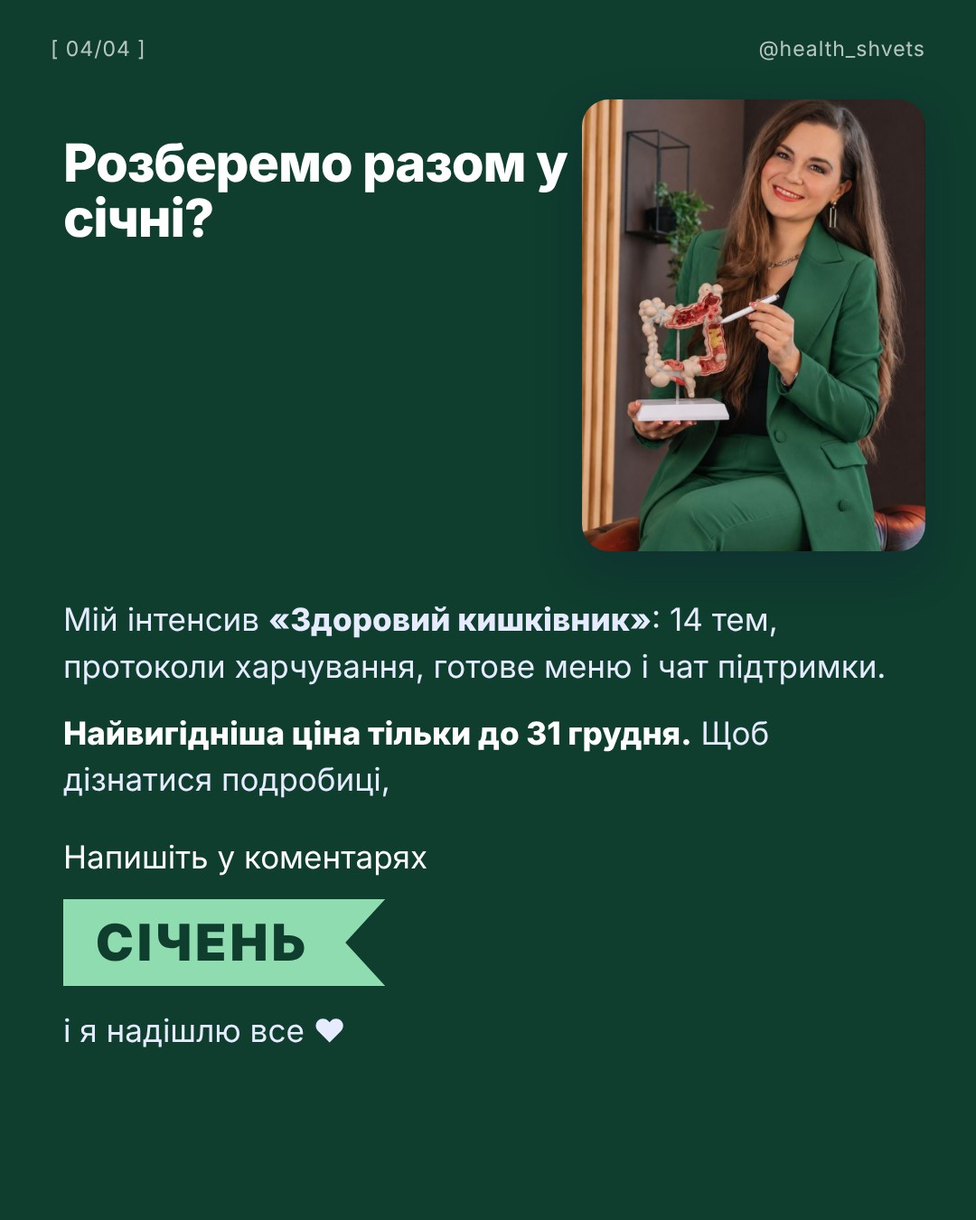
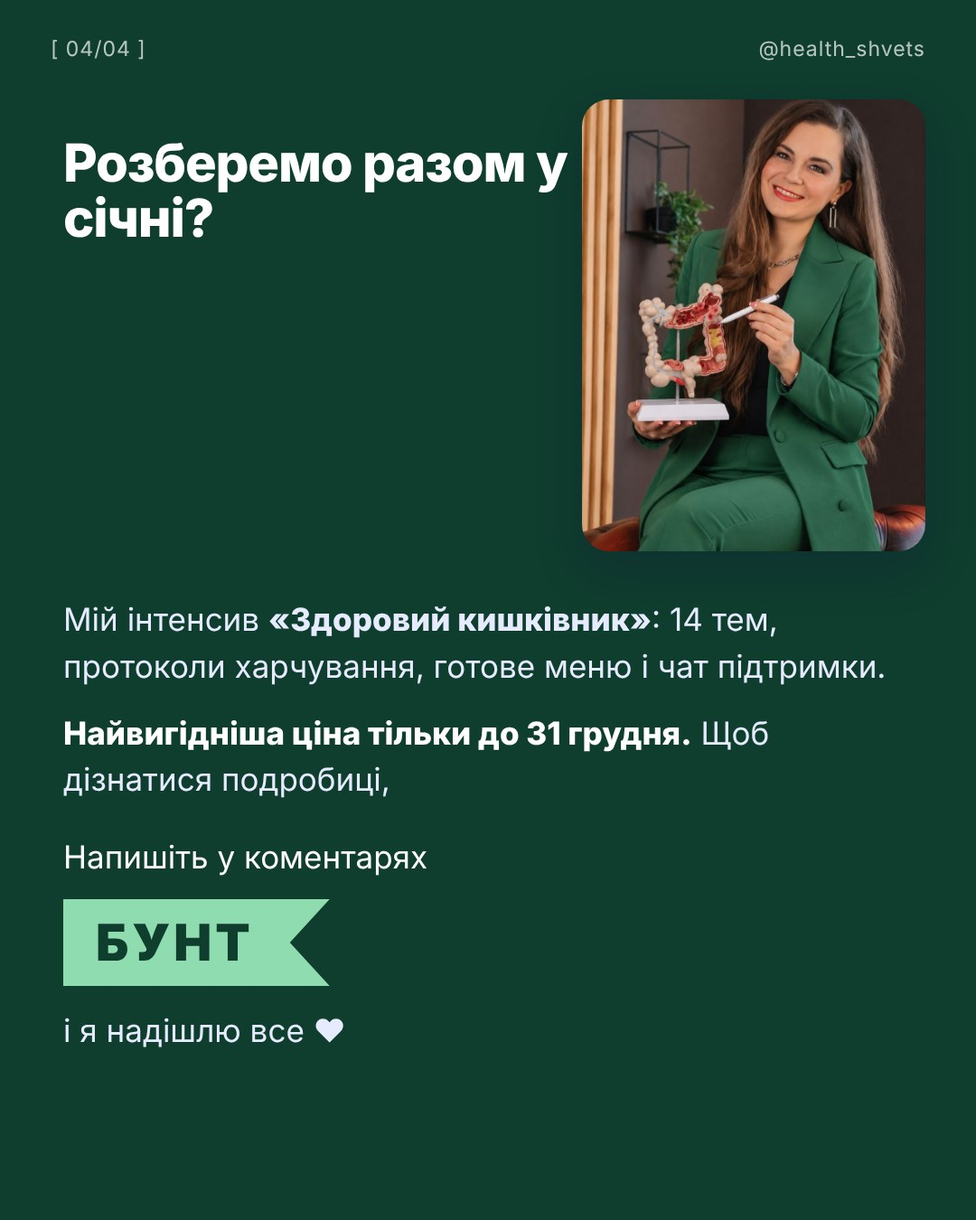
Каруселі грудня: СІЧЕНЬ → ЖИВІТ / БУНТ (січневий інтенсив)
Claude-Session: https://claude.ai/code/session_01VzrYNc44ZAszRsGLiFGcPN

Changed region(s): [[0.0917, 0.7156, 0.3972, 0.8089]]

diff --git a/instaposts.py b/instaposts.py
@@ -445,8 +445,8 @@ DEC += [
      "«Детокс-чай очищає організм від шлаків». Серйозно? 😉\n\nУ 2020 році Федеральна торгова комісія США вимагала від бренду детокс-чаїв Teami виплатити 1 мільйон доларів. Його рекламували відомі блогерки і співачки і обіцяли, що чай «очищає», допомагає схуднути і навіть боротися з хворобами. Доказів не було.\n\nЗдавалось би, трави, гарна упаковка, і зранку справді мінус на вагах.\n\nАле є нюанс. У багатьох детокс-чаях є проносні й сечогінні трави, і мінус на вагах це вода, а не «шлаки». А організм очищають печінка, нирки і кишківник, і їм потрібна підтримка, а не проносне.\n\nВід жінки, яка після кожного свята «чиститься» чаєм з маркетплейсу, до тієї, що роками п'є проносне і вже не може без нього. На консультації я дивлюсь, як працюють печінка і ШКТ, чи є запальні процеси й дефіцити, і даю рекомендації щодо раціону і детоксикації саме для вас.\n\nДо 31 грудня моя консультація зі знижкою 50% ‼\n\nНапишіть у коментарях КОНСУЛЬТАЦІЯ, і я надішлю подробиці ❤\n\nдетокс чай печінка міфи схуднення нутриціолог здоров'я"),
     ('h8', '2026-12-14 18:00', '🥦 «Телефон ви заряджаєте щоночі. А себе?» (слово ВІТАМІНИ)',
      "Телефон ви заряджаєте щоночі. А себе? 🔋\n\nО 23:00 телефон на зарядці, щоб зранку був на 100%. Не дай боже вийти з дому з 15%. А самі ми живемо на червоному індикаторі тижнями: кава зранку, кава в обід, «відпочину на вихідних» 😉\n\nУ тіла теж є зарядка, і це не кава. Це сон, їжа і те, чого вашому організму бракує саме зараз. Взимку батарейка сідає швидше, а правильний «зарядний пристрій» у кожного свій.\n\nЯ підберу вітаміни й добавки під ваш стан і аналізи, з посиланнями з різних сайтів і схемою прийому. До 31 грудня знижка 50% ‼\n\nНапишіть у коментарях ВІТАМІНИ, і я надішлю подробиці ❤\n\nенергія втома вітаміни зима здоров'я нутриціолог сон"),
-    ('h9', '2026-12-15 09:00', '📌 «Що буде в січневому інтенсиві» (слово СІЧЕНЬ)',
-     "Почати рік з легкого живота? Ось що буде в моєму інтенсиві «Здоровий кишківник» ❤\n\n14 тем за 14 днів: як імунітет, гормони, шкіра, вага і настрій залежать від кишківника, найважливіші аналізи і самотести вдома, харчові тригери і протокол харчування, здуття і газоутворення, 10 причин закрепів, мікробіом, відновлення слизової і «аптечка» для ШКТ.\n\nВи отримаєте розбір своїх аналізів і пошук причин, протоколи харчування, готове меню і рецепти, вправи й масажні техніки, чат підтримки весь інтенсив і знижки до 25% на аналізи й добавки.\n\n«У січні я ще не буду готова», пишуть мені. А січень якраз найкращий час: після свят тіло саме просить легкості. І найвигідніша ціна діє тільки для тих, хто записується до 31 грудня.\n\nНапишіть у коментарях СІЧЕНЬ, і я надішлю подробиці ❤\n\nкишківник інтенсив січень здоров'я травлення нутриціолог новий рік"),
+    ('h9', '2026-12-15 09:00', '📌 «Що буде в січневому інтенсиві» (слово ЖИВІТ)',
+     "Почати рік з легкого живота? Ось що буде в моєму інтенсиві «Здоровий кишківник» ❤\n\n14 тем за 14 днів: як імунітет, гормони, шкіра, вага і настрій залежать від кишківника, найважливіші аналізи і самотести вдома, харчові тригери і протокол харчування, здуття і газоутворення, 10 причин закрепів, мікробіом, відновлення слизової і «аптечка» для ШКТ.\n\nВи отримаєте розбір своїх аналізів і пошук причин, протоколи харчування, готове меню і рецепти, вправи й масажні техніки, чат підтримки весь інтенсив і знижки до 25% на аналізи й добавки.\n\n«У січні я ще не буду готова», пишуть мені. А січень якраз найкращий час: після свят тіло саме просить легкості. І найвигідніша ціна діє тільки для тих, хто записується до 31 грудня.\n\nНапишіть у коментарях ЖИВІТ, і я надішлю подробиці ❤\n\nкишківник інтенсив січень здоров'я травлення нутриціолог новий рік"),
     ('h10', '2026-12-15 18:00', '📌 Рецепт «Пюре з цвітної капусти» (без кодового слова, підписка)',
      "Пюре, після якого не хочеться спати 😉\n\nПюре з цвітної капусти з мого збірника святкових страв, на 2 порції.\n\nІнгредієнти: цвітна капуста 300 г, вершки 10% 50 мл, білий йогурт 50 мл, оливкова олія 1 ст. л., сухий часник і перець за смаком.\n\nКапусту відварюємо до м'якості. У чашу блендера кладемо капусту, спеції, вершки, йогурт і олію і збиваємо до кремової текстури.\n\nНіжне, як звичне пюре, але значно легше для святкового столу, де й так багато ситних страв. Добре поєднується з рибою, індичкою чи стейком з лосося.\n\nЗбережіть, щоб приготувати на свята, і підписуйтесь: тут я щодня ділюсь рецептами, після яких легко, а не важко.\n\nВаша Валентина ❤\n\nрецепт пюре цвітна капуста гарнір свята здорове харчування нутриціолог"),
     ('h11', '2026-12-16 09:00', '💰 «Starbucks продає не каву. Він продає Різдво» (слово ЦУКОР)',
@@ -455,8 +455,8 @@ DEC += [
      "«Раніше я взагалі не знала про цей взаємозв'язок». Так мені написала клієнтка ❤\n\nУ неї аутоімунний тиреоїдит, антитіла високі, і вона думала, що це тільки про щитовидку. Ми почали не з таблеток, а з того, що показали її аналізи: травлення, дефіцити, запальні процеси.\n\nУ новому аналізі антитіла впали в 5 разів, і вона написала: «Аж не віриться, що мій той дірявий кишківник настільки вплинув на щитовидку». Справжній відгук і бланк у каруселі.\n\nБез аналізів ми б лікували «щитовидку взагалі». А вони показали, що саме запускає процес у її організмі.\n\n«У мене все в нормі», кажуть мені. Норма на бланку ще не оптимальний стан. «Я не знаю, які здавати». Список складаю я, тільки потрібні вам.\n\nРезультати в кожного свої. Тут можуть бути й ваші 😉 До 31 грудня розбір аналізів зі знижкою 50% ‼\n\nНапишіть у коментарях АНАЛІЗИ, і я надішлю подробиці ❤\n\nщитовидка АІТ аналізи кишківник відгук нутриціолог здоров'я"),
     ('h13', '2026-12-17 09:00', '📌 «Імунітет узимку: що покласти в тарілку?» (слово ВІТАМІНИ)',
      "Збережіть, це ваша зимова тарілка для імунітету 😉\n\n1. Вітамін D. Сонця взимку мало, тому важливі жирна риба і яйця. А чи потрібна добавка, покажуть аналізи.\n2. Вітамін C. Не тільки цитрусові: квашена капуста, ківі, солодкий перець, шипшина.\n3. Цинк. Гарбузове насіння, горіхи, яйця, м'ясо.\n4. Ферментоване. Квашена капуста, кефір, натуральний йогурт підтримують мікробіом, а з ним і імунітет.\n5. Менше цукру. Надлишок солодкого не допомагає імунітету, а тяга тільки росте.\n\n«А може, просто випити комплекс?» Можна, якщо знати, чого саме вам бракує і в якій формі. Інакше це гроші на вітер.\n\nЯ підберу засоби під ваш стан і аналізи, з посиланнями і схемою прийому. До 31 грудня знижка 50% ‼\n\nНапишіть у коментарях ВІТАМІНИ, і я надішлю подробиці ❤\n\nімунітет зима вітаміни харчування здоров'я нутриціолог застуда"),
-    ('h14', '2026-12-17 18:00', '🥦 «Ви теж миєте вікна перед Новим роком?» (слово СІЧЕНЬ)',
-     "Ви теж миєте вікна перед Новим роком? 🧽\n\nЯлинка ще в коробці, а ви вже на підвіконні з ганчіркою. Шафи розібрані, люстра блищить, у квартирі пахне чистотою. Бо хочеться зустріти рік у чистоті, а не тягнути старе в нове 😉\n\nА генеральне прибирання всередині? Квартиру ми відмиваємо щороку, а тіло після свят просто «терпить». Хоча саме воно найбільше просить легкості й порядку в січні.\n\nУ січні стартує мій інтенсив «Здоровий кишківник»: 14 тем за 14 днів, протоколи харчування, готове меню і чат підтримки. Найвигідніша ціна тільки до 31 грудня.\n\nНапишіть у коментарях СІЧЕНЬ, і я надішлю подробиці ❤\n\nновий рік прибирання кишківник інтенсив січень здоров'я нутриціолог"),
+    ('h14', '2026-12-17 18:00', '🥦 «Ви теж миєте вікна перед Новим роком?» (слово БУНТ)',
+     "Ви теж миєте вікна перед Новим роком? 🧽\n\nЯлинка ще в коробці, а ви вже на підвіконні з ганчіркою. Шафи розібрані, люстра блищить, у квартирі пахне чистотою. Бо хочеться зустріти рік у чистоті, а не тягнути старе в нове 😉\n\nА генеральне прибирання всередині? Квартиру ми відмиваємо щороку, а тіло після свят просто «терпить». Хоча саме воно найбільше просить легкості й порядку в січні.\n\nУ січні стартує мій інтенсив «Здоровий кишківник»: 14 тем за 14 днів, протоколи харчування, готове меню і чат підтримки. Найвигідніша ціна тільки до 31 грудня.\n\nНапишіть у коментарях БУНТ, і я надішлю подробиці ❤\n\nновий рік прибирання кишківник інтенсив січень здоров'я нутриціолог"),
     ('i1', '2026-12-18 09:00', '💥 «Якщо дорого і модно, значить корисно». Серйозно? (слово ВІТАМІНИ)',
      "«Якщо дорого і модно, значить корисно». Серйозно? 😉\n\nУ 2018 році wellness-бренд Goop акторки Гвінет Пелтроу погодився заплатити 145 тисяч доларів штрафу. Компанія продавала дорогі нефритові «яйця» і квіткові есенції з обіцянками для жіночого здоров'я, які нічим не були підтверджені.\n\nВідоме ім'я, красива упаковка, ціна як у ювелірному. Здавалось би, хіба знаменитість стане продавати непотріб?\n\nАле є нюанс. Ціна показує маркетинг, а не користь. Дорога баночка з модним складом може бути вам зовсім не потрібна, а дешевий засіб у правильній формі може дати результат.\n\nВід жінки, яка купує колаген за ціною зимових чобіт, бо «у блогерки шкіра сяє», до тієї, що бере найдорожчий комплекс, бо «дешеве не працює». Корисне не те, що дороге, а те, що потрібне вам.\n\nЯ підбираю засоби під ваш стан і аналізи і даю посилання з різних сайтів, щоб ви мали вибір по ціні. До 31 грудня знижка 50% ‼\n\nНапишіть у коментарях ВІТАМІНИ, і я надішлю подробиці ❤\n\nвітаміни добавки міфи ціна здоров'я нутриціолог колаген"),
     ('i2', '2026-12-18 18:00', '📌 «Корпоратив без важкого ранку» (слово АДВЕНТ)',
@@ -475,8 +475,8 @@ DEC += [
      "Мед, агава, фруктоза: що з цього корисніше? Збережіть 😉\n\nМед це глюкоза + фруктоза, і для організму він ближчий до цукру, ніж здається. Сироп агави модний і «натуральний», але в моєму гайді він у списку прихованих цукрів. Фруктоза має навантаження на печінку, тому «на фруктозі» ще не означає «корисно». А в батончиках «без цукру» часто ці самі підсолоджувачі, ідентичні за впливом.\n\nЩо робити? Поступово зменшувати доданий цукор і переходити на продукти з природним цукром і клітковиною: овочі, ягоди, горіхи, фрукти в міру. Тяга слабшає, коли розумієш, як вона працює, а не коли міняєш цукор на мед.\n\nПовний список прихованих цукрів і рейтинг солодощів у моєму гайді «Як приборкати тягу до солодкого». До 31 грудня знижка 50% ‼\n\nНапишіть у коментарях ЦУКОР, і я надішлю подробиці ❤\n\nцукор мед фруктоза солодке гайд нутриціолог здоров'я"),
     ('i9', '2026-12-22 09:00', '💰 «Чому Kinder Surprise не продають у США?» (слово ДІТИ)',
      "Чому Kinder Surprise не продають у США? 🥚\n\nШоколадне яйце від Ferrero з іграшкою всередині діти обожнюють у всьому світі. Але класичний Kinder Surprise у США не продають: тамтешні правила забороняють солодощі з неїстівним предметом усередині.\n\nFerrero не здалася і придумала Kinder Joy: дві половинки, окремо солодке і окремо іграшка. Бо продають тут не шоколад, а відчуття сюрпризу.\n\nІ дитина теж хоче не цукор, а радість, сюрприз і увагу. Солодке просто стало найпростішою упаковкою для цих відчуттів.\n\n«А якщо бабуся принесе цукерки?» Одна на свято нічого не зламає, важливо, що щодня. Корисні цукерки, які ліпили разом, яблука з корицею, наліпки, маленька книжка теж сюрприз.\n\nПонад 15 років я вчу батьків цьому. У мінікурсі «7 кроків до хронічного здоров'я вашої дитини» 50 рецептів, гайд «45 найкорисніших продуктів» і шпаргалка Е-добавок. До 31 грудня знижка 50% ‼\n\nНапишіть у коментарях ДІТИ, і я надішлю подробиці ❤\n\nдіти солодке Kinder батьки харчування нутриціолог свята"),
-    ('i10', '2026-12-22 18:00', '🥦 «Ви теж пакуєте валізу за годину до потяга?» (слово СІЧЕНЬ)',
-     "Ви теж пакуєте валізу за годину до потяга? 🧳\n\nКвитки куплені місяць тому, а речі летять у валізу за годину до виходу. Зарядку забули, зубну щітку купуєте на вокзалі, а потім весь відпочинок докупляєте те, що не взяли 😉\n\nНовий рік теж подорож, і зібратись у неї варто заздалегідь. Хто вирішує про здоров'я 31 грудня о 23:50, той знову починає «з понеділка». А хто готується зараз, стартує легко.\n\nУ січні стартує мій інтенсив «Здоровий кишківник»: 14 тем, протоколи харчування і чат підтримки. Найвигідніша ціна тільки до 31 грудня.\n\nНапишіть у коментарях СІЧЕНЬ, і я надішлю подробиці ❤\n\nновий рік січень кишківник інтенсив здоров'я нутриціолог плани"),
+    ('i10', '2026-12-22 18:00', '🥦 «Ви теж пакуєте валізу за годину до потяга?» (слово ЖИВІТ)',
+     "Ви теж пакуєте валізу за годину до потяга? 🧳\n\nКвитки куплені місяць тому, а речі летять у валізу за годину до виходу. Зарядку забули, зубну щітку купуєте на вокзалі, а потім весь відпочинок докупляєте те, що не взяли 😉\n\nНовий рік теж подорож, і зібратись у неї варто заздалегідь. Хто вирішує про здоров'я 31 грудня о 23:50, той знову починає «з понеділка». А хто готується зараз, стартує легко.\n\nУ січні стартує мій інтенсив «Здоровий кишківник»: 14 тем, протоколи харчування і чат підтримки. Найвигідніша ціна тільки до 31 грудня.\n\nНапишіть у коментарях ЖИВІТ, і я надішлю подробиці ❤\n\nновий рік січень кишківник інтенсив здоров'я нутриціолог плани"),
     ('i11', '2026-12-23 09:00', '📌 «12 страв і ніякої важкості» (слово АДВЕНТ, завтра подарунок)',
      "Завтра Святвечір. 12 страв і ніякої важкості? Збережіть мої підказки 😉\n\n1. Не голодуйте до першої зірки, інакше ввечері з'їсте всі 12 страв повними тарілками.\n2. Починайте з овочів: вінегрет, квашена капуста, салати.\n3. Кожної страви по ложці: 12 страв це 12 ложок, а не 12 порцій.\n4. Узвар без цукру: сухофрукти й так дають солодкість.\n5. Запечена риба чи рибні котлети замість смаженого.\n\nА завтра в моєму адвенті на вас чекає подарунок: «Здорове меню на тиждень», раціон без глютену і лактози, сніданки, обіди, вечері і конструктор тарілки 🎁 Щоб після свят просто відкрити і готувати.\n\nНапишіть у коментарях АДВЕНТ, і я надішлю вам календар, меню прийде завтра зранку ❤\n\nСвятвечір 12 страв свята харчування адвент нутриціолог традиції"),
     ('i12', '2026-12-23 18:00', '📌 «Кутя без зайвого цукру: 3 заміни» (слово ЦУКОР)',
@@ -487,12 +487,12 @@ DEC += [
      "Котлети, в яких ховається бажання ❤\n\nРибні котлети з начинкою «Загадай бажання» з мого збірника.\n\nІнгредієнти: філе щуки 500 г, яйце 1 шт., сир 30 г, кріп 20 г, часник 2 зубчики.\n\nВідокремте філе від шкіри, приберіть кісточки, додайте часник і сіль і зробіть фарш. Відваріть яйце, натріть яйце й сир, дрібно наріжте зелень. Покладіть начинку всередину, сформуйте круглі котлети і обсмажте з усіх боків до золотистого кольору.\n\nПодавайте і скажіть гостям: хто розріже котлету першим, загадує бажання 😉\n\nТихого вам Святвечора! Збережіть рецепт на Різдво і підписуйтесь, тут я щодня про здоров'я смачно і без заборон.\n\nВаша Валентина ❤\n\nРіздво рецепт риба котлети свята здорове харчування нутриціолог"),
     ('j1', '2026-12-25 09:00', '❤ «З Різдвом: подарунок в адвенті» (слово АДВЕНТ)',
      "З Різдвом Христовим! 🎄\n\nСьогодні в моєму адвенті, крім святкового рецепту, я дарую щедру знижку на свою повноцінну консультацію: детальний розбір вашої ситуації, раціону, аналізів і комплексні рекомендації.\n\nУ консультацію входить детальна анкета, розбір аналізів і список додаткових за потреби, пошук першопричин і дорожня карта на 3-6 місяців.\n\n«Я подумаю після свят». Після свят буде звичайна ціна і та сама втома, здуття чи висипання. А сьогодні Різдво, і це гарний день почати дбати про себе ❤ Подарунок діє недовго.\n\nНапишіть у коментарях АДВЕНТ, і я надішлю вам календар з подарунком ❤\n\nРіздво подарунок консультація адвент здоров'я нутриціолог свята"),
-    ('j2', '2026-12-25 18:00', '🥦 «Ви теж розбираєте ялинку аж у лютому?» (слово СІЧЕНЬ)',
-     "Ви теж розбираєте ялинку аж у лютому? 🎄\n\nСвята давно минули, а ялинка стоїть, голки сиплються на килим, гірлянду вже ніхто не вмикає. «Ще тиждень постоїть», і так до Стрітення. Бо розбирати завжди лінивіше, ніж наряджати 😉\n\nЗі святами всередині так само. Застілля давно позаду, а важкість, здуття і зайві кілограми «стоять» до весни.\n\nУ січні стартує мій інтенсив «Здоровий кишківник»: 14 тем, протоколи харчування, готове меню і чат підтримки. Найвигідніша ціна тільки до 31 грудня.\n\nНапишіть у коментарях СІЧЕНЬ, і я надішлю подробиці ❤\n\nпісля свят ялинка кишківник інтенсив січень здоров'я нутриціолог"),
+    ('j2', '2026-12-25 18:00', '🥦 «Ви теж розбираєте ялинку аж у лютому?» (слово БУНТ)',
+     "Ви теж розбираєте ялинку аж у лютому? 🎄\n\nСвята давно минули, а ялинка стоїть, голки сиплються на килим, гірлянду вже ніхто не вмикає. «Ще тиждень постоїть», і так до Стрітення. Бо розбирати завжди лінивіше, ніж наряджати 😉\n\nЗі святами всередині так само. Застілля давно позаду, а важкість, здуття і зайві кілограми «стоять» до весни.\n\nУ січні стартує мій інтенсив «Здоровий кишківник»: 14 тем, протоколи харчування, готове меню і чат підтримки. Найвигідніша ціна тільки до 31 грудня.\n\nНапишіть у коментарях БУНТ, і я надішлю подробиці ❤\n\nпісля свят ялинка кишківник інтенсив січень здоров'я нутриціолог"),
     ('j3', '2026-12-26 09:00', '💥 «Яйця підвищують холестерин». Серйозно? (слово КОНСУЛЬТАЦІЯ)',
      "«Яйця підвищують холестерин. Не більше двох на тиждень». Серйозно? 😉\n\nАмериканські рекомендації з харчування роками радили не більше 300 мг холестерину з їжею на день. А в одному яйці його близько 186 мг. Тож яйця стали «ворогом серця», а мільйони людей їли омлет з самих білків.\n\nАле є нюанс. У 2015 році в нових рекомендаціях цю межу прибрали. Виявилось, що в більшості людей холестерин з їжі впливає на кров значно менше, ніж думали. Але є й ті, в кого реакція сильніша.\n\nТому скільки яєць можна саме вам, покаже ліпідограма і ваш стан. Від жінки, яка викидає жовтки, але їсть печиво «без холестерину», до тієї, в кого холестерин росте через цукор і стрес. Не бійтеся продукту, дивіться на свій аналіз.\n\nНа консультації я розбираю ваш раціон і аналізи і пояснюю, що потрібно саме вам. До 31 грудня знижка 50% ‼\n\nНапишіть у коментарях КОНСУЛЬТАЦІЯ, і я надішлю подробиці ❤\n\nяйця холестерин міфи харчування аналізи нутриціолог здоров'я"),
-    ('j4', '2026-12-26 18:00', '📌 «1-3 січня: план відновлення після свят» (слово СІЧЕНЬ)',
-     "Збережіть на 1 січня, це мій план відновлення після свят 😉\n\n1. Вода з самого ранку і протягом дня, особливо якщо був алкоголь.\n2. Перший ранок без кави на голодний шлунок.\n3. Прості страви: овочі, крупи, риба, яйця, без доїдання майонезних салатів.\n4. За потреби рослинні ферменти і засоби для розвантаження печінки.\n5. Прогулянка замість дивана, навіть 30 хвилин.\n\nЯкщо здуття, закрепи чи важкість тягнуться тижнями, це вже сигнал розібратися з кишківником. А якщо є хронічні захворювання, перед будь-якими засобами порадьтеся з лікарем.\n\nУ січні стартує мій інтенсив «Здоровий кишківник». Найвигідніша ціна тільки до 31 грудня.\n\nНапишіть у коментарях СІЧЕНЬ, і я надішлю подробиці ❤\n\nпісля свят відновлення печінка травлення січень нутриціолог здоров'я"),
+    ('j4', '2026-12-26 18:00', '📌 «1-3 січня: план відновлення після свят» (слово ЖИВІТ)',
+     "Збережіть на 1 січня, це мій план відновлення після свят 😉\n\n1. Вода з самого ранку і протягом дня, особливо якщо був алкоголь.\n2. Перший ранок без кави на голодний шлунок.\n3. Прості страви: овочі, крупи, риба, яйця, без доїдання майонезних салатів.\n4. За потреби рослинні ферменти і засоби для розвантаження печінки.\n5. Прогулянка замість дивана, навіть 30 хвилин.\n\nЯкщо здуття, закрепи чи важкість тягнуться тижнями, це вже сигнал розібратися з кишківником. А якщо є хронічні захворювання, перед будь-якими засобами порадьтеся з лікарем.\n\nУ січні стартує мій інтенсив «Здоровий кишківник». Найвигідніша ціна тільки до 31 грудня.\n\nНапишіть у коментарях ЖИВІТ, і я надішлю подробиці ❤\n\nпісля свят відновлення печінка травлення січень нутриціолог здоров'я"),
     ('j5', '2026-12-27 09:00', '💰 «Що насправді продає Happy Meal?» (слово ДІТИ)',
      "Що насправді продає Happy Meal? 🍟\n\nУ 1979 році McDonald's запустив по всій Америці дитяче меню в яскравій коробці з іграшкою всередині. Діти почали просити не бургер, а іграшку, і батьки купували, щоб зібрати всю колекцію.\n\nУ 2010 році Сан-Франциско ухвалило правило: іграшку можна давати лише до дитячих наборів, які відповідають вимогам до харчової цінності. Бо продають тут не їжу, а сюрприз.\n\nДитина обирає емоцію, а батьки спокій: «аби поїв і не плакав». Так звичка закладається не на тарілці, а в тому, що ми робимо радісним.\n\nТому я раджу робити корисне святом: красива тарілка, смішна форма, готування разом, маленький сюрприз не в їжі. Понад 15 років я вчу батьків цьому. У мінікурсі «7 кроків до хронічного здоров'я вашої дитини» 5 відеолекцій, 50 рецептів і гайд «45 найкорисніших продуктів для дітей». До 31 грудня знижка 50% ‼\n\nНапишіть у коментарях ДІТИ, і я надішлю подробиці ❤\n\nдіти фастфуд харчування батьки звички нутриціолог здоров'я"),
     ('j6', '2026-12-27 18:00', '🥦 «Ви теж купуєте новий щоденник на 1 січня?» (слово КОНСУЛЬТАЦІЯ)',
@@ -507,8 +507,8 @@ DEC += [
      "3 дні до кінця знижки 50%. Що ще встигнути? ‼\n\nЗараз за пів ціни: повноцінна консультація з дорожньою картою, розбір аналізів за оптимальними нормами, підбір вітамінів під ваш стан, гайд «Як приборкати тягу до солодкого» і мінікурс для батьків про здоров'я дітей.\n\nЗ чого почати? Якщо симптомів багато і незрозуміло, звідки вони, з консультації. Якщо аналізи вже є, а що з ними робити, неясно, з розбору аналізів. А якщо головне це тяга до солодкого, з гайду.\n\n«Почну з нового року». Почати можна і з нового року, але ціна з 1 січня буде повна. Записатися можна зараз, а розбиратися вже в січні.\n\nНапишіть у коментарях КОНСУЛЬТАЦІЯ, і я підкажу, з чого почати саме вам ❤\n\nзнижка консультація аналізи вітаміни здоров'я нутриціолог новий рік"),
     ('j11', '2026-12-30 09:00', '📌 «Аналізи після свят: коли здавати» (слово АНАЛІЗИ)',
      "Аналізи після свят: коли здавати, щоб не злякатися? Збережіть 😉\n\n1. Не одразу після застіль. Я раджу здавати, коли ви повернулися до звичного харчування, хоча б через тиждень.\n2. Не після алкоголю: він може спотворити показники, особливо печінкові.\n3. Більшість аналізів здають зранку натщесерце, без кави і сніданку.\n4. Тільки потрібні, а не весь прайс лабораторії.\n\nЗнижка на розбір діє до 31 грудня, а здати аналізи можна вже в січні. Я складу список саме для вас, дам промокоди лабораторій зі знижкою до 15%, а коли будуть результати, розберемо їх разом.\n\nНапишіть у коментарях АНАЛІЗИ, і я надішлю подробиці ❤\n\nаналізи після свят здоров'я лабораторія нутриціолог печінка січень"),
-    ('j12', '2026-12-30 18:00', '🥦 «Ви теж загадуєте бажання під куранти?» (слово СІЧЕНЬ)',
-     "Ви теж загадуєте бажання під куранти? 🥂\n\nПишете на папірці, підпалюєте, кидаєте попіл у келих і встигаєте випити до дванадцятого удару. А потім чекаєте весь рік, поки воно здійсниться саме 😉\n\nБажання «бути здоровою» мабуть найчастіше за всіх. Але здоров'я не здійснюється під куранти. Воно складається з того, що ви робите в перші тижні нового року.\n\nУ січні мій інтенсив «Здоровий кишківник»: 14 днів, протоколи харчування і чат підтримки. Найвигідніша ціна тільки до завтра, 31 грудня.\n\nНапишіть у коментарях СІЧЕНЬ, і я надішлю подробиці ❤\n\nновий рік бажання здоров'я кишківник інтенсив січень нутриціолог"),
+    ('j12', '2026-12-30 18:00', '🥦 «Ви теж загадуєте бажання під куранти?» (слово БУНТ)',
+     "Ви теж загадуєте бажання під куранти? 🥂\n\nПишете на папірці, підпалюєте, кидаєте попіл у келих і встигаєте випити до дванадцятого удару. А потім чекаєте весь рік, поки воно здійсниться саме 😉\n\nБажання «бути здоровою» мабуть найчастіше за всіх. Але здоров'я не здійснюється під куранти. Воно складається з того, що ви робите в перші тижні нового року.\n\nУ січні мій інтенсив «Здоровий кишківник»: 14 днів, протоколи харчування і чат підтримки. Найвигідніша ціна тільки до завтра, 31 грудня.\n\nНапишіть у коментарях БУНТ, і я надішлю подробиці ❤\n\nновий рік бажання здоров'я кишківник інтенсив січень нутриціолог"),
     ('j13', '2026-12-31 09:00', '📌 «Останній день знижки 50%» (слово КОНСУЛЬТАЦІЯ)',
      "Сьогодні знижка 50% діє востаннє ‼\n\nДо опівночі за пів ціни: консультація, розбір аналізів, підбір вітамінів, гайд про солодке і мінікурс для батьків. Завтра все буде за повною ціною.\n\nА в адвенті сьогодні останнє віконце і останній день спеціальної ціни на січневий інтенсив «Здоровий кишківник».\n\nНапишіть у коментарях КОНСУЛЬТАЦІЯ, і я підкажу, з чого почати саме вам ❤\n\nзнижка останній день консультація здоров'я нутриціолог новий рік аналізи"),
     ('j14', '2026-12-31 18:00', '❤ «Дякую, що цей рік ви були зі мною» (без кодового слова, підписка)',

diff --git a/tools/posts2/plan10.py b/tools/posts2/plan10.py
@@ -34,7 +34,7 @@ J1 = [
          "АДВЕНТ", "glow", "і я надішлю вам календар ❤"),
 ]
 
-# ===== j2 · 25.12 18:00 · 🥦 зальотна · СІЧЕНЬ =====
+# ===== j2 · 25.12 18:00 · 🥦 зальотна · БУНТ =====
 N = 4
 J2 = [
     typo("green", N, "🎄", 'Ви теж розбираєте ялинку <i class="s ac">аж у лютому?</i>'),
@@ -46,7 +46,7 @@ J2 = [
     ctap("green", 4, N, "Розберемо разом у січні?",
          ["Мій інтенсив <b>«Здоровий кишківник»</b>: 14 тем, протоколи харчування, готове меню і чат підтримки.",
           "<b style=\"color:#fff\">Найвигідніша ціна тільки до 31 грудня.</b> Щоб дізнатися подробиці,"],
-         "СІЧЕНЬ", "flag", "і я надішлю все ❤", "intensive.jpg", "center 15%"),
+         "БУНТ", "flag", "і я надішлю все ❤", "intensive.jpg", "center 15%"),
 ]
 
 # ===== j3 · 26.12 9:00 · 💥 міф · КОНСУЛЬТАЦІЯ (в описі) =====
@@ -70,7 +70,7 @@ J3 = [
     quoteph("blue", 7, N, "advent/xmas_cons.jpg", "«Не бійтеся продукту, дивіться на&nbsp;свій&nbsp;аналіз»", "center 25%"),
 ]
 
-# ===== j4 · 26.12 18:00 · 📌 класична · СІЧЕНЬ =====
+# ===== j4 · 26.12 18:00 · 📌 класична · ЖИВІТ =====
 N = 6
 J4 = [
     cov("green", "g-041.jpg", "ЗБЕРЕЖІТЬ", '1-3 січня: <i class="s ac2">мій план відновлення після свят</i>', "", "center", "bottom:110px", n=N),
@@ -85,7 +85,7 @@ J4 = [
           "Якщо є хронічні захворювання, перед будь-якими засобами порадьтеся з лікарем."], "g-049.jpg", "center 25%"),
     ctap("green", 6, N, "Розберемося разом у січні?",
          ["Інтенсив <b>«Здоровий кишківник»</b> стартує в січні. <b style=\"color:#fff\">Найвигідніша ціна тільки до 31 грудня.</b> Щоб дізнатися подробиці,"],
-         "СІЧЕНЬ", "quote", "і я надішлю все ❤", "g-002.jpg", "center 30%"),
+         "ЖИВІТ", "quote", "і я надішлю все ❤", "g-002.jpg", "center 30%"),
 ]
 
 # ===== j5 · 27.12 9:00 · 💰 бренд · ДІТИ =====
@@ -210,7 +210,7 @@ J11 = [
          "АНАЛІЗИ", "glow", "і я надішлю все ❤"),
 ]
 
-# ===== j12 · 30.12 18:00 · 🥦 зальотна · СІЧЕНЬ =====
+# ===== j12 · 30.12 18:00 · 🥦 зальотна · БУНТ =====
 N = 4
 J12 = [
     typo("green", N, "🥂", 'Ви теж загадуєте бажання <i class="s ac">під куранти?</i>'),
@@ -222,7 +222,7 @@ J12 = [
     ctap("green", 4, N, "Здійснимо його разом?",
          ["У січні мій інтенсив <b>«Здоровий кишківник»</b>: 14 днів, протоколи харчування і чат підтримки.",
           "<b style=\"color:#fff\">Найвигідніша ціна тільки до завтра, 31 грудня.</b> Щоб дізнатися подробиці,"],
-         "СІЧЕНЬ", "note", "і я надішлю все ❤", "g-035.jpg", "center 20%"),
+         "БУНТ", "note", "і я надішлю все ❤", "g-035.jpg", "center 20%"),
 ]
 
 # ===== j13 · 31.12 9:00 · 📌 останній день · КОНСУЛЬТАЦІЯ =====
@@ -264,12 +264,12 @@ ITEMS = [
  "«Я подумаю після свят». Після свят буде звичайна ціна і та сама втома, здуття чи висипання. А сьогодні Різдво, і це гарний день почати дбати про себе ❤ Подарунок діє недовго.",
  "Напишіть у коментарях АДВЕНТ, і я надішлю вам календар з подарунком ❤",
  "Різдво подарунок консультація адвент здоров'я нутриціолог свята"]),
-("j2", "2026-12-25 18:00", "🥦 «Ви теж розбираєте ялинку аж у лютому?» (слово СІЧЕНЬ)", [
+("j2", "2026-12-25 18:00", "🥦 «Ви теж розбираєте ялинку аж у лютому?» (слово БУНТ)", [
  "Ви теж розбираєте ялинку аж у лютому? 🎄",
  "Свята давно минули, а ялинка стоїть, голки сиплються на килим, гірлянду вже ніхто не вмикає. «Ще тиждень постоїть», і так до Стрітення. Бо розбирати завжди лінивіше, ніж наряджати 😉",
  "Зі святами всередині так само. Застілля давно позаду, а важкість, здуття і зайві кілограми «стоять» до весни.",
  "У січні стартує мій інтенсив «Здоровий кишківник»: 14 тем, протоколи харчування, готове меню і чат підтримки. Найвигідніша ціна тільки до 31 грудня.",
- "Напишіть у коментарях СІЧЕНЬ, і я надішлю подробиці ❤",
+ "Напишіть у коментарях БУНТ, і я надішлю подробиці ❤",
  "після свят ялинка кишківник інтенсив січень здоров'я нутриціолог"]),
 ("j3", "2026-12-26 09:00", "💥 «Яйця підвищують холестерин». Серйозно? (слово КОНСУЛЬТАЦІЯ)", [
  "«Яйця підвищують холестерин. Не більше двох на тиждень». Серйозно? 😉",
@@ -279,12 +279,12 @@ ITEMS = [
  "На консультації я розбираю ваш раціон і аналізи і пояснюю, що потрібно саме вам. До 31 грудня знижка 50% ‼",
  "Напишіть у коментарях КОНСУЛЬТАЦІЯ, і я надішлю подробиці ❤",
  "яйця холестерин міфи харчування аналізи нутриціолог здоров'я"]),
-("j4", "2026-12-26 18:00", "📌 «1-3 січня: план відновлення після свят» (слово СІЧЕНЬ)", [
+("j4", "2026-12-26 18:00", "📌 «1-3 січня: план відновлення після свят» (слово ЖИВІТ)", [
  "Збережіть на 1 січня, це мій план відновлення після свят 😉",
  "1. Вода з самого ранку і протягом дня, особливо якщо був алкоголь.\n2. Перший ранок без кави на голодний шлунок.\n3. Прості страви: овочі, крупи, риба, яйця, без доїдання майонезних салатів.\n4. За потреби рослинні ферменти і засоби для розвантаження печінки.\n5. Прогулянка замість дивана, навіть 30 хвилин.",
  "Якщо здуття, закрепи чи важкість тягнуться тижнями, це вже сигнал розібратися з кишківником. А якщо є хронічні захворювання, перед будь-якими засобами порадьтеся з лікарем.",
  "У січні стартує мій інтенсив «Здоровий кишківник». Найвигідніша ціна тільки до 31 грудня.",
- "Напишіть у коментарях СІЧЕНЬ, і я надішлю подробиці ❤",
+ "Напишіть у коментарях ЖИВІТ, і я надішлю подробиці ❤",
  "після свят відновлення печінка травлення січень нутриціолог здоров'я"]),
 ("j5", "2026-12-27 09:00", "💰 «Що насправді продає Happy Meal?» (слово ДІТИ)", [
  "Що насправді продає Happy Meal? 🍟",
@@ -335,12 +335,12 @@ ITEMS = [
  "Знижка на розбір діє до 31 грудня, а здати аналізи можна вже в січні. Я складу список саме для вас, дам промокоди лабораторій зі знижкою до 15%, а коли будуть результати, розберемо їх разом.",
  "Напишіть у коментарях АНАЛІЗИ, і я надішлю подробиці ❤",
  "аналізи після свят здоров'я лабораторія нутриціолог печінка січень"]),
-("j12", "2026-12-30 18:00", "🥦 «Ви теж загадуєте бажання під куранти?» (слово СІЧЕНЬ)", [
+("j12", "2026-12-30 18:00", "🥦 «Ви теж загадуєте бажання під куранти?» (слово БУНТ)", [
  "Ви теж загадуєте бажання під куранти? 🥂",
  "Пишете на папірці, підпалюєте, кидаєте попіл у келих і встигаєте випити до дванадцятого удару. А потім чекаєте весь рік, поки воно здійсниться саме 😉",
  "Бажання «бути здоровою» мабуть найчастіше за всіх. Але здоров'я не здійснюється під куранти. Воно складається з того, що ви робите в перші тижні нового року.",
  "У січні мій інтенсив «Здоровий кишківник»: 14 днів, протоколи харчування і чат підтримки. Найвигідніша ціна тільки до завтра, 31 грудня.",
- "Напишіть у коментарях СІЧЕНЬ, і я надішлю подробиці ❤",
+ "Напишіть у коментарях БУНТ, і я надішлю подробиці ❤",
  "новий рік бажання здоров'я кишківник інтенсив січень нутриціолог"]),
 ("j13", "2026-12-31 09:00", "📌 «Останній день знижки 50%» (слово КОНСУЛЬТАЦІЯ)", [
  "Сьогодні знижка 50% діє востаннє ‼",

diff --git a/tools/posts2/plan9.py b/tools/posts2/plan9.py
@@ -173,7 +173,7 @@ I9 = [
          "ДІТИ", "quote", "і я надішлю все ❤"),
 ]
 
-# ===== i10 · 22.12 18:00 · 🥦 зальотна · СІЧЕНЬ =====
+# ===== i10 · 22.12 18:00 · 🥦 зальотна · ЖИВІТ =====
 N = 4
 I10 = [
     typo("blue", N, "🧳", 'Ви теж пакуєте валізу <i class="s ac">за годину до потяга?</i>'),
@@ -185,7 +185,7 @@ I10 = [
     ctap("blue", 4, N, "Зберемо вашу «валізу» на січень?",
          ["Мій інтенсив <b>«Здоровий кишківник»</b> стартує в січні: 14 тем, протоколи харчування і чат підтримки.",
           "<b style=\"color:#fff\">Найвигідніша ціна тільки до 31 грудня.</b> Щоб дізнатися подробиці,"],
-         "СІЧЕНЬ", "note", "і я надішлю все ❤", "intensive.jpg", "center 15%"),
+         "ЖИВІТ", "note", "і я надішлю все ❤", "intensive.jpg", "center 15%"),
 ]
 
 # ===== i11 · 23.12 9:00 · 📌 класична · АДВЕНТ =====
@@ -329,12 +329,12 @@ CAPS = [
  "Понад 15 років я вчу батьків цьому. У мінікурсі «7 кроків до хронічного здоров'я вашої дитини» 50 рецептів, гайд «45 найкорисніших продуктів» і шпаргалка Е-добавок. До 31 грудня знижка 50% ‼",
  "Напишіть у коментарях ДІТИ, і я надішлю подробиці ❤",
  "діти солодке Kinder батьки харчування нутриціолог свята"]),
-("i10", "2026-12-22 18:00", "🥦 «Ви теж пакуєте валізу за годину до потяга?» (слово СІЧЕНЬ)", [
+("i10", "2026-12-22 18:00", "🥦 «Ви теж пакуєте валізу за годину до потяга?» (слово ЖИВІТ)", [
  "Ви теж пакуєте валізу за годину до потяга? 🧳",
  "Квитки куплені місяць тому, а речі летять у валізу за годину до виходу. Зарядку забули, зубну щітку купуєте на вокзалі, а потім весь відпочинок докупляєте те, що не взяли 😉",
  "Новий рік теж подорож, і зібратись у неї варто заздалегідь. Хто вирішує про здоров'я 31 грудня о 23:50, той знову починає «з понеділка». А хто готується зараз, стартує легко.",
  "У січні стартує мій інтенсив «Здоровий кишківник»: 14 тем, протоколи харчування і чат підтримки. Найвигідніша ціна тільки до 31 грудня.",
- "Напишіть у коментарях СІЧЕНЬ, і я надішлю подробиці ❤",
+ "Напишіть у коментарях ЖИВІТ, і я надішлю подробиці ❤",
  "новий рік січень кишківник інтенсив здоров'я нутриціолог плани"]),
 ("i11", "2026-12-23 09:00", "📌 «12 страв і ніякої важкості» (слово АДВЕНТ, завтра подарунок)", [
  "Завтра Святвечір. 12 страв і ніякої важкості? Збережіть мої підказки 😉",

diff --git a/tools/posts2/plan8.py b/tools/posts2/plan8.py
@@ -196,10 +196,10 @@ H8 = [
          "ВІТАМІНИ", "flag", "і я надішлю все ❤", "vitaminy.jpg", "center 15%"),
 ]
 
-# ===== h9 · 15.12 9:00 · 📌 класична · СІЧЕНЬ =====
+# ===== h9 · 15.12 9:00 · 📌 класична · ЖИВІТ =====
 N = 6
 H9 = [
-    cov("green", "intensive.jpg", "СІЧЕНЬ", 'Почати рік з легкого живота? <i class="s ac2">Ось що буде в моєму інтенсиві</i>', "", "center 15%", "bottom:100px", n=N, size=74),
+    cov("green", "intensive.jpg", "ЖИВІТ", 'Почати рік з легкого живота? <i class="s ac2">Ось що буде в моєму інтенсиві</i>', "", "center 15%", "bottom:100px", n=N, size=74),
     big("green", 2, N, "14 тем за 14 днів",
         [("01", "Як імунітет, гормони, шкіра, вага і настрій <b>залежать від кишківника</b>"), ("02", "Найважливіші аналізи і <b>самотести вдома</b>"),
          ("04", "Харчові тригери і <b>протокол харчування</b>"), ("08", "Що робити при <b>здутті і газоутворенні</b>")], "g-100.jpg", "center", 440),
@@ -214,7 +214,7 @@ H9 = [
           "А ціна для тих, хто записується в грудні, <b>найнижча</b>."], "g-049.jpg", "center 25%"),
     ctap("green", 6, N, "Займете своє місце?",
          ["Інтенсив «Здоровий кишківник» стартує в січні. <b style=\"color:#fff\">Найвигідніша ціна діє тільки до 31 грудня.</b> Щоб дізнатися подробиці,"],
-         "СІЧЕНЬ", "quote", "і я надішлю все ❤", "g-002.jpg", "center 30%"),
+         "ЖИВІТ", "quote", "і я надішлю все ❤", "g-002.jpg", "center 30%"),
 ]
 
 # ===== h10 · 15.12 18:00 · 📌 рецепт · без кодового слова =====
@@ -295,7 +295,7 @@ H13 = [
          "ВІТАМІНИ", "outline", "і я надішлю все ❤", "g-035.jpg", "center 20%"),
 ]
 
-# ===== h14 · 17.12 18:00 · 🥦 зальотна · 4 · СІЧЕНЬ =====
+# ===== h14 · 17.12 18:00 · 🥦 зальотна · 4 · БУНТ =====
 N = 4
 H14 = [
     typo("blue", N, "🧽", 'Ви теж миєте вікна <i class="s ac">перед Новим роком?</i>'),
@@ -308,7 +308,7 @@ H14 = [
     ctap("blue", 4, N, "Почнемо рік з легкості?",
          ["У січні стартує мій інтенсив <b>«Здоровий кишківник»</b>: 14 тем за 14 днів, протоколи харчування і чат підтримки.",
           "<b style=\"color:#fff\">Найвигідніша ціна тільки до 31 грудня.</b> Щоб дізнатися подробиці,"],
-         "СІЧЕНЬ", "glow", "і я надішлю все ❤", "intensive.jpg", "center 15%"),
+         "БУНТ", "glow", "і я надішлю все ❤", "intensive.jpg", "center 15%"),
 ]
 
 SETS = {"h1": H1, "h2": H2, "h3": H3, "h4": H4, "h5": H5, "h6": H6, "h7": H7, "h8": H8, "h9": H9, "h10": H10, "h11": H11, "h12": H12, "h13": H13, "h14": H14}

diff --git a/CLAUDE.md b/CLAUDE.md
@@ -133,3 +133,6 @@
 - guide.py: опис доповнено з гайду (TEXT_MORE: її результати, додатки, 41 стор.), кнопка «💳 Придбати за 310,5 грн» (guide:buy, price_now() = 621/2 до 31.12, далі 621) → WayForPay Валентини → PDF приходить сам. «Написати» прибрано.
 - Кнопка «Меню» тепер «💚 Мої послуги» (T.BTN_MENU, inline у розділах, нижнє меню «💚 МОЇ ПОСЛУГИ»; старі «🏠 МЕНЮ»/«🏠 Меню» працюють). Прапорець нижнього меню bm6. changelog 2026-11-27-fast.
 - 27.11 ~17:25: payinfo2711.py (flag payinfo2711): Валентині список, що оплачується в агенті (консультація, гайд, січень, подарунки адвенту), що через особисті (аналізи, вітаміни, супровід), курс для дітей на її сторінці WayForPay (перевірити 499,5).
+
+## Кодові слова 28.11 (Тетяна)
+- Слова СІЧЕНЬ у ManyChat НЕМАЄ: січневий інтенсив = ЖИВІТ (?start=test, діагностика → пропозиція) і БУНТ (?start=bunt, відео → інтенсив). У каруселях h9, i10, j4 СІЧЕНЬ → ЖИВІТ; h14, j2, j12 → БУНТ (plan8/9/10 перезібрано, описи в instaposts.py).
